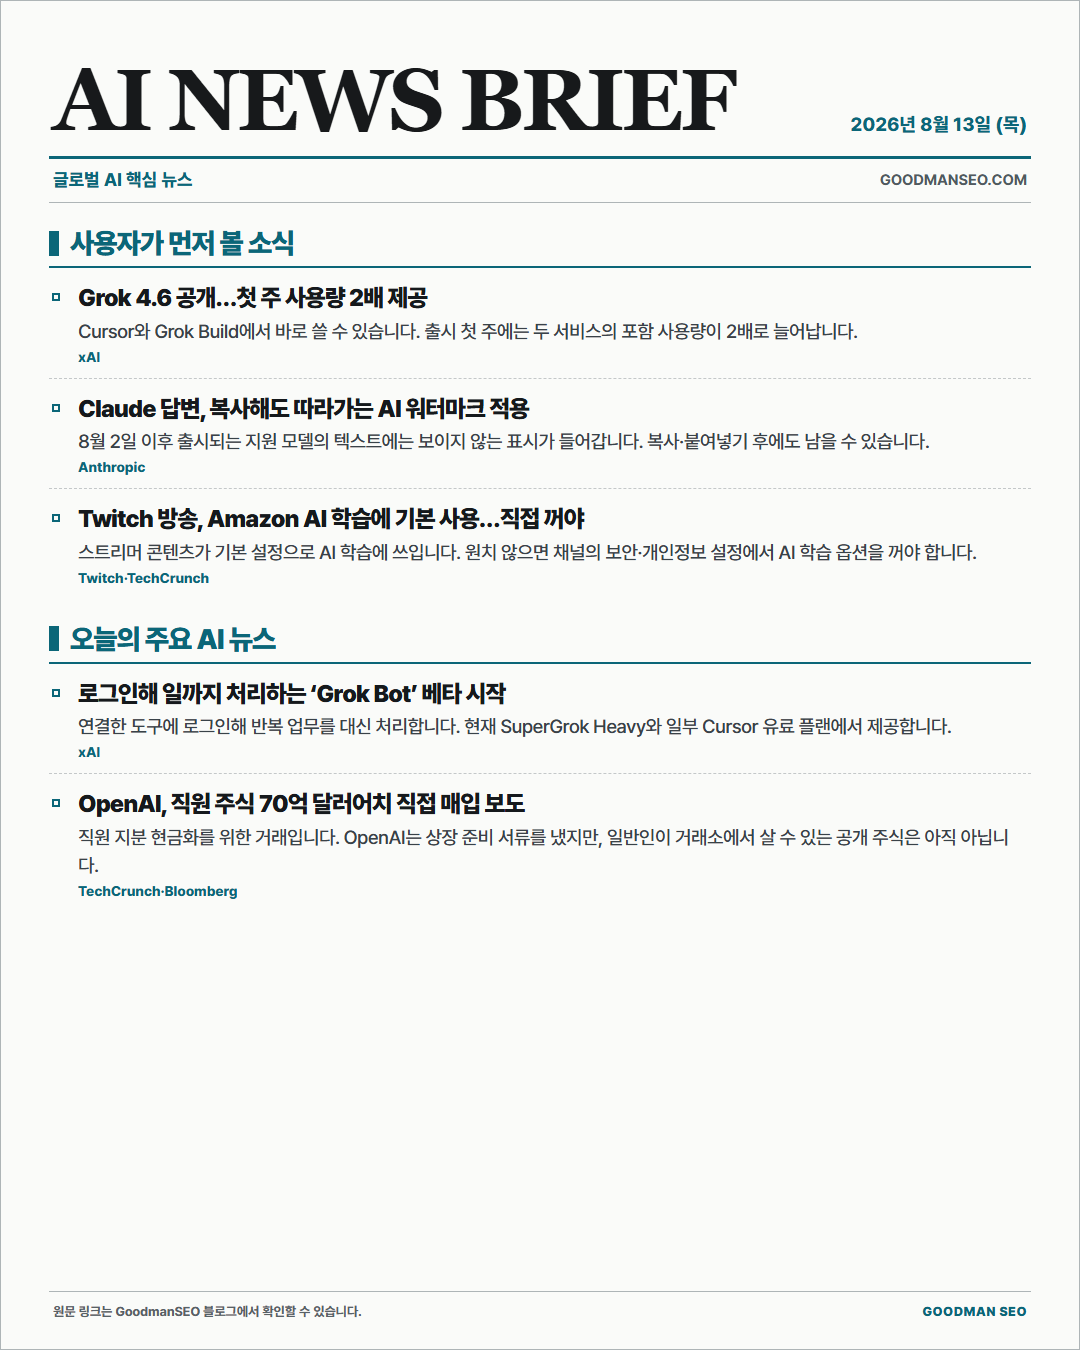
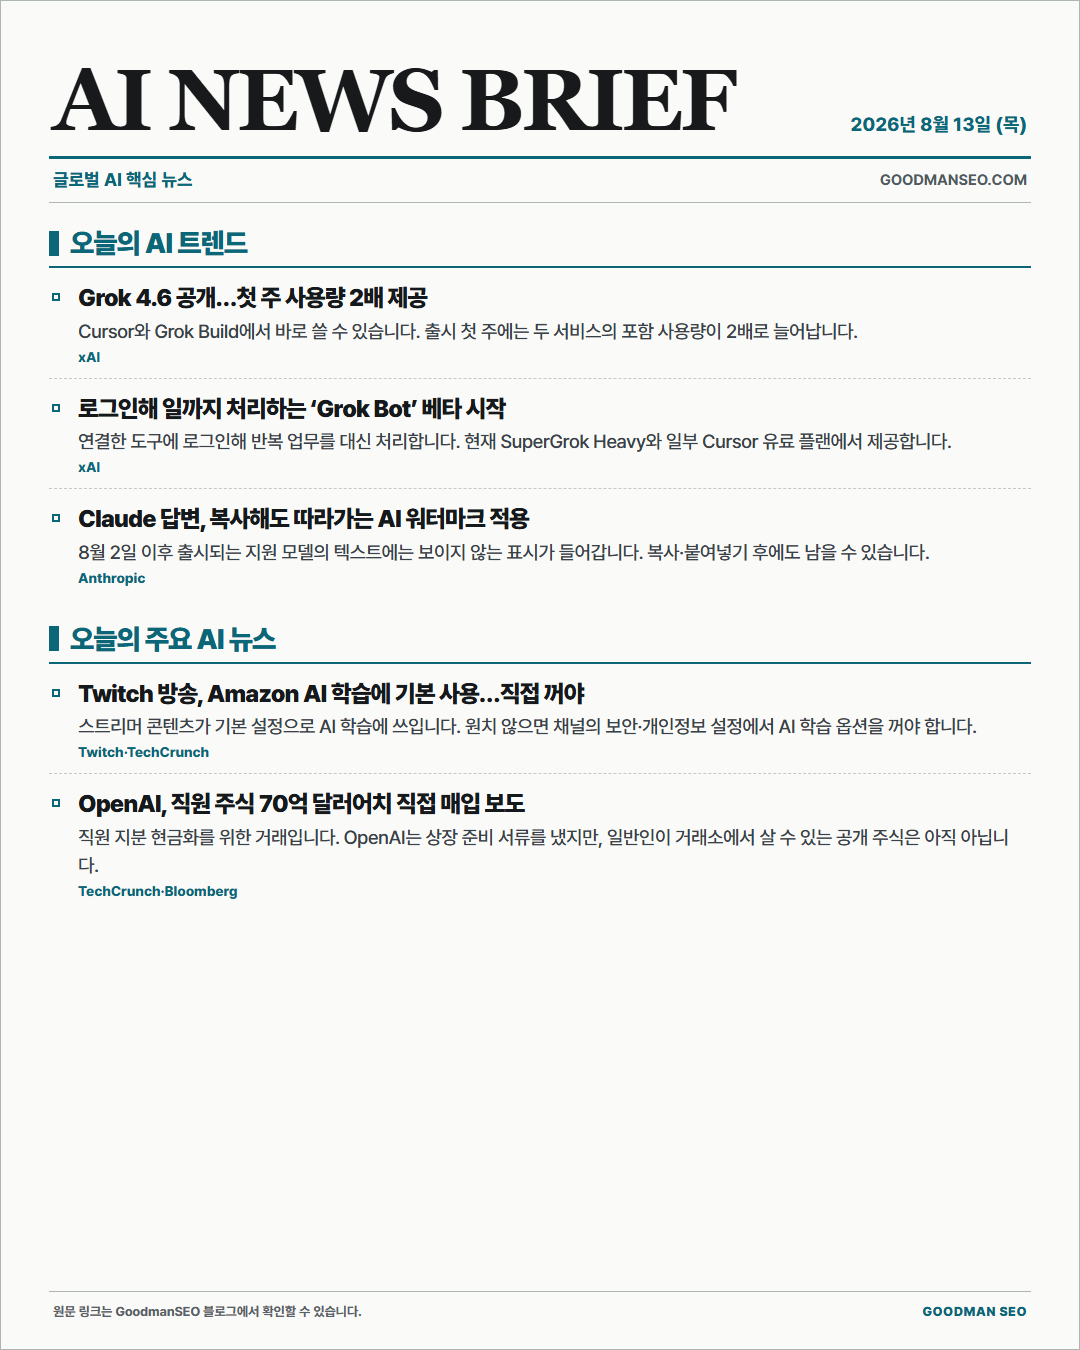
Prioritize trending AI topics in daily brief

Changed region(s): [[0.0611, 0.28, 0.8861, 0.4356], [0.0611, 0.4978, 0.8861, 0.56], [0.0611, 0.1556, 0.275, 0.1867]]

diff --git a/src/data/blogPosts.js b/src/data/blogPosts.js
@@ -5,18 +5,18 @@ export const blogPosts = [
     author: 'Goodman SEO',
     title: 'AI 키뉴스 브리프 | 2026년 8월 13일',
     excerpt:
-      'Grok 4.6 첫 주 2배 사용량, Claude 워터마크, Twitch AI 학습 설정 등 사용자 변화와 주요 AI 뉴스 5건을 정리했습니다.',
+      'Grok 4.6, Grok Bot, Claude 워터마크 등 지금 관심이 높은 AI 트렌드와 주요 뉴스 5건을 정리했습니다.',
     category: 'AI 키뉴스',
     kind: 'ai-key-news',
     image: '/blog/ai-keynews-2026-08-13.png',
     imageAlt:
-      '2026년 8월 13일 Grok 4.6 첫 주 2배 사용량, Claude 워터마크, Twitch AI 학습 설정 등 사용자 변화와 주요 AI 뉴스 5건을 담은 AI NEWS BRIEF',
+      '2026년 8월 13일 Grok 4.6, Grok Bot, Claude 워터마크 등 화제성 높은 AI 트렌드와 주요 뉴스 5건을 담은 AI NEWS BRIEF',
     imageLayout: 'portrait',
     keywords: ['AI 키뉴스', '오늘의 AI 뉴스', 'Grok 4.6', 'Claude 워터마크', 'Twitch AI 학습'],
     content: [
       {
         type: 'newsSection',
-        title: '사용자가 먼저 볼 소식',
+        title: '오늘의 AI 트렌드',
         items: [
           {
             headline: 'Grok 4.6 공개…첫 주 사용량 2배 제공',
@@ -26,18 +26,18 @@ export const blogPosts = [
             url: 'https://x.ai/news/grok-4-6',
           },
           {
+            headline: '로그인해 일까지 처리하는 ‘Grok Bot’ 베타 시작',
+            summary:
+              '연결한 도구에 로그인해 반복 업무를 대신 처리합니다. 현재 SuperGrok Heavy와 일부 Cursor 유료 플랜에서 제공합니다.',
+            source: 'xAI',
+            url: 'https://x.ai/bot',
+          },
+          {
             headline: 'Claude 답변, 복사해도 따라가는 AI 워터마크 적용',
             summary:
               '8월 2일 이후 출시되는 지원 모델의 텍스트에는 보이지 않는 표시가 들어갑니다. 복사·붙여넣기 후에도 남을 수 있습니다.',
             source: 'Anthropic',
             url: 'https://support.claude.com/en/articles/16266773-how-claude-marks-ai-generated-content',
-          },
-          {
-            headline: 'Twitch 방송, Amazon AI 학습에 기본 사용…직접 꺼야',
-            summary:
-              '스트리머 콘텐츠가 기본 설정으로 AI 학습에 쓰입니다. 원치 않으면 채널의 보안·개인정보 설정에서 AI 학습 옵션을 꺼야 합니다.',
-            source: 'Twitch·TechCrunch',
-            url: 'https://techcrunch.com/2026/08/12/amazon-will-train-on-twitch-streamers-content-by-default-unless-they-opt-out/',
           },
         ],
       },
@@ -46,11 +46,11 @@ export const blogPosts = [
         title: '오늘의 주요 AI 뉴스',
         items: [
           {
-            headline: '로그인해 일까지 처리하는 ‘Grok Bot’ 베타 시작',
+            headline: 'Twitch 방송, Amazon AI 학습에 기본 사용…직접 꺼야',
             summary:
-              '연결한 도구에 로그인해 반복 업무를 대신 처리합니다. 현재 SuperGrok Heavy와 일부 Cursor 유료 플랜에서 제공합니다.',
-            source: 'xAI',
-            url: 'https://x.ai/bot',
+              '스트리머 콘텐츠가 기본 설정으로 AI 학습에 쓰입니다. 원치 않으면 채널의 보안·개인정보 설정에서 AI 학습 옵션을 꺼야 합니다.',
+            source: 'Twitch·TechCrunch',
+            url: 'https://techcrunch.com/2026/08/12/amazon-will-train-on-twitch-streamers-content-by-default-unless-they-opt-out/',
           },
           {
             headline: 'OpenAI, 직원 주식 70억 달러어치 직접 매입 보도',

diff --git a/docs/current-status.md b/docs/current-status.md
@@ -44,7 +44,7 @@ Treat those scores as report claims unless re-verified in the current thread.
 
 Additional work log:
 
-- 2026-08-13 daily AI key-news series: added `/blog/ai-keynews-2026-08-13/` with five current items in a user-first mix, a matching `1080x1350` share image, original-source links, a download button, static metadata, and sitemap registration. Each edition should lead with 3–4 immediate user changes such as availability, pricing, usage limits, privacy, or account settings, then add 2–3 broadly important AI company or industry stories. X is a discovery source; claims must be confirmed through company sources or reputable reporting, and freshness must not be sacrificed to force a user-focused item. Avoid benchmark-only and infrastructure detail unless the wider impact is clear. The deterministic image renderer is `scripts/generate-ai-keynews-image.mjs` and accepts 3–6 strong items. X and KakaoTalk posting remain manual and outside the site workflow.
+- 2026-08-13 daily AI key-news series: added `/blog/ai-keynews-2026-08-13/` with five current items in a trend-first mix, a matching `1080x1350` share image, original-source links, a download button, static metadata, and sitemap registration. “User-first” means reader-interest rather than direct user impact: each edition should lead with 3–4 high-interest topics visibly trending on X, such as major model launches, free or usage changes, surprising capabilities and demos, or active controversies, then add 2–3 broadly important AI company or industry stories. X engagement and repeated discussion are discovery signals, while all claims must still be confirmed through company sources or reputable reporting. Avoid stale practical tips, benchmark-only filler, and infrastructure detail unless the wider interest is clear. The deterministic image renderer is `scripts/generate-ai-keynews-image.mjs` and accepts 3–6 strong items. X and KakaoTalk posting remain manual and outside the site workflow.
 - 2026-07-30 customer-temperature blog post: added `/blog/customer-temperature-before-sales-review/`, then refined it into structured summary cards, section headings, action rows, a review-request callout, and three generated blog images. The full article was also rewritten in a friendlier, contemporary Korean voice while preserving the original sales experience and Cold/Warm/Hot framework. Static build and targeted ESLint checks passed.
 - 2026-07-13 English homepage rollout: added `/en` and `/en/contact` while preserving the existing homepage structure and navy/off-white design system. Shared navigation, footer, enquiry form, language switcher, document language, canonical, `hreflang`, static route generation, and sitemap entries now support Korean and English. Targeted ESLint, Impeccable detect, production build, and Playwright desktop/mobile checks passed.
 - `docs/homepage-redesign-2026-07-04.md`: records the July 4 homepage redesign work log, including reference-image direction, hero woman image, dark navy section system, compact typography, footer/nav/logo changes, removed score CTA section, and validation notes.

diff --git a/wiki/log.md b/wiki/log.md
@@ -1,6 +1,6 @@
 # Wiki Log
 
-- 2026-08-13: Set the daily AI key-news editorial mix to user-first rather than user-only: lead with 3–4 fresh user-impact changes, then add 2–3 major AI news items. X is used for discovery and claims are verified separately; stale practical tips and technical filler are excluded, and 3–6 strong items are allowed. External X and KakaoTalk posting remain manual.
+- 2026-08-13: Clarified the daily AI key-news mix as trend-first rather than direct-impact-first: lead with 3–4 fresh topics that readers are actively interested in on X, then add 2–3 major AI news items. Engagement and repeated discussion are discovery signals, claims are verified separately, and stale practical tips or technical filler are excluded. External X and KakaoTalk posting remain manual.
 
 - 2026-07-19: Aligned the AI Business Report across pricing, report samples, contact copy, navigation, footer, and the Korean homepage. Added `/en/ai-report` and connected it from the English homepage, navigation, footer, enquiry flow, static generation, and sitemap. Public pricing is now `AUD 249` launch price against `AUD 349` standard price.
 
